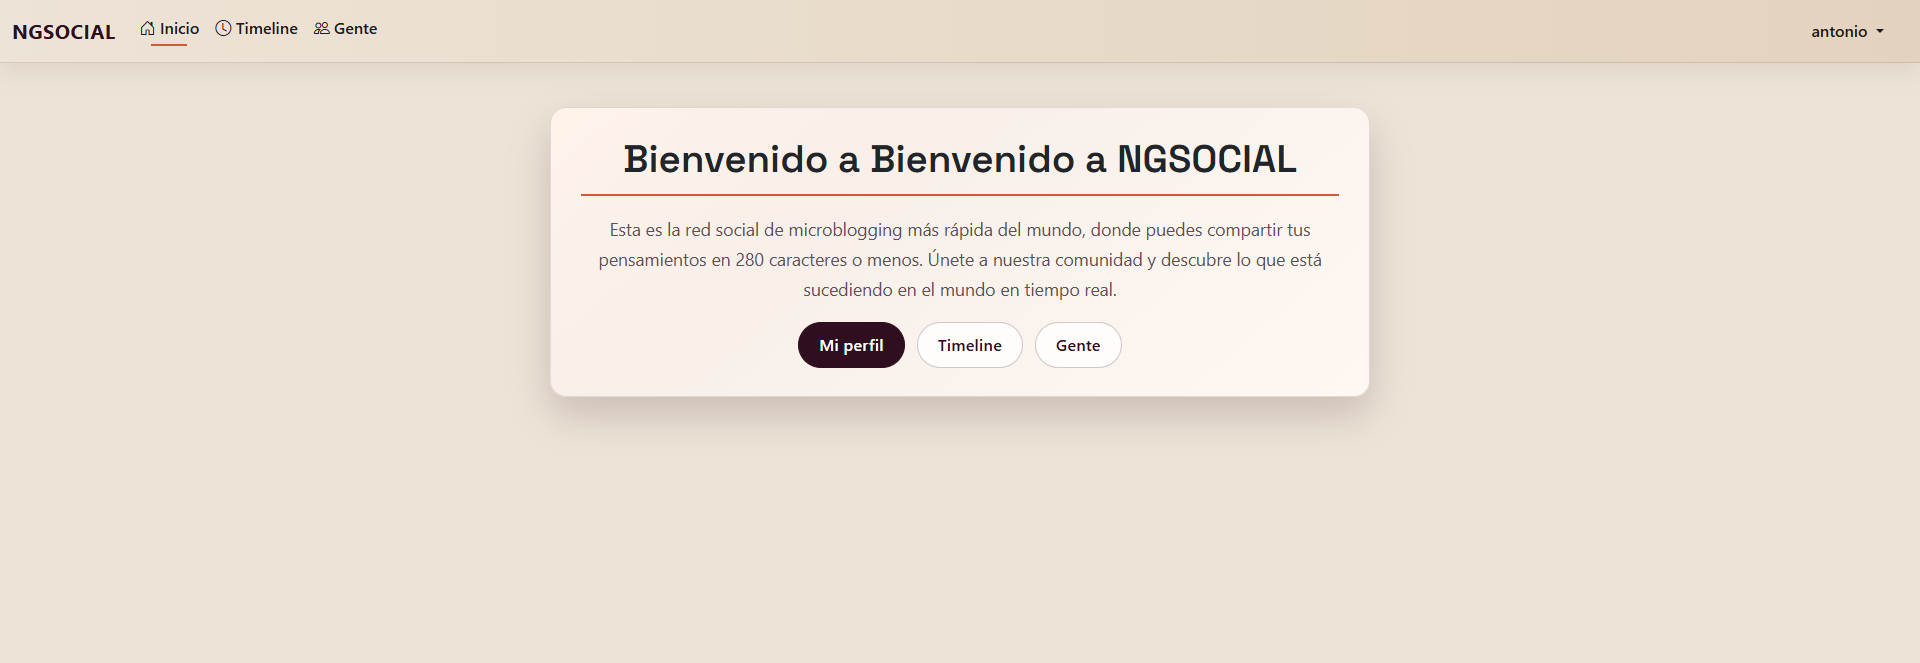
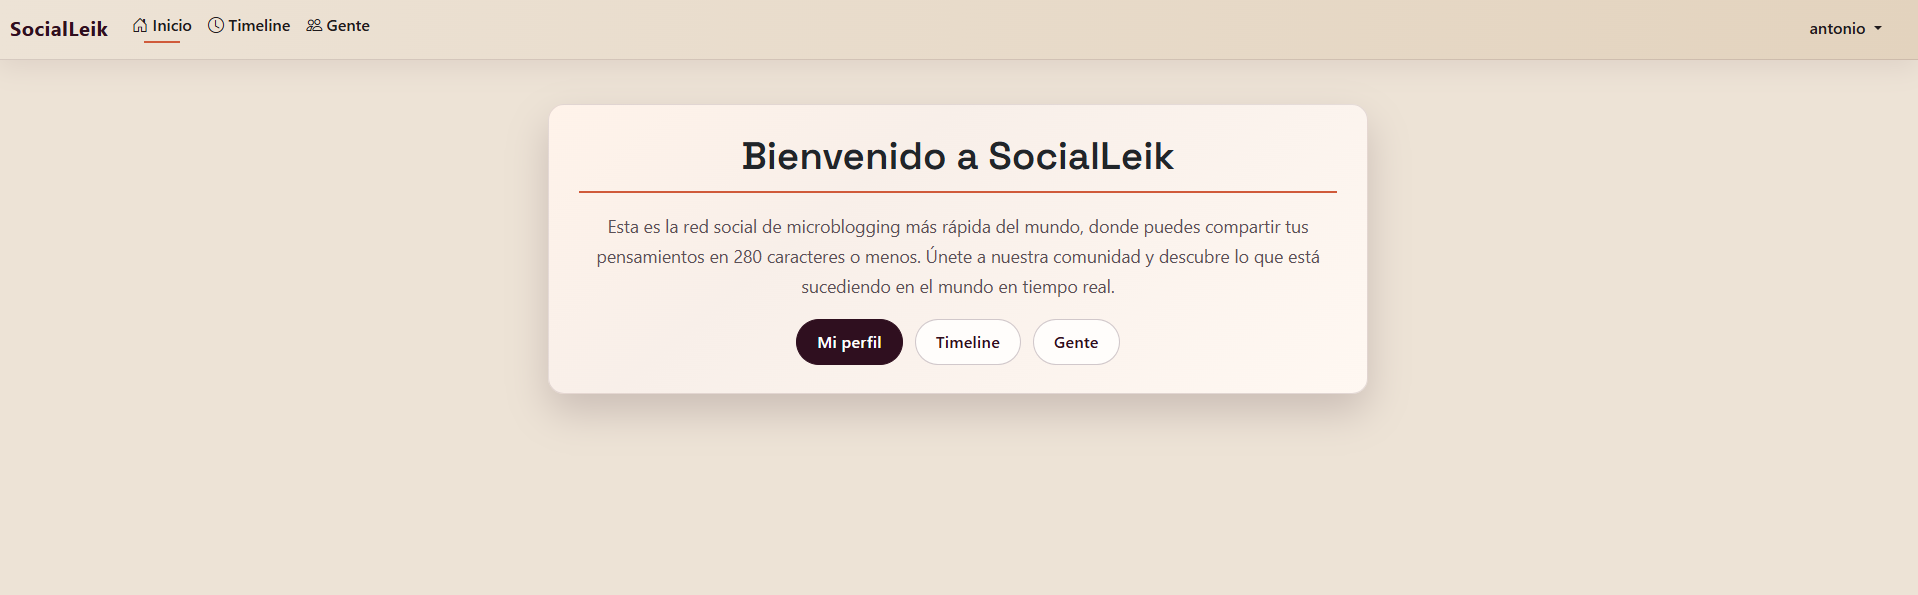
.

diff --git a/client/src/app/components/home/home.html b/client/src/app/components/home/home.html
@@ -1,7 +1,7 @@
 <div class="home-shell">
     <div class="home-hero">
 
-        <h1 class="h1-strong">Bienvenido a {{title}}</h1>
+        <h1 class="h1-strong">{{title}}</h1>
         <p class="home-text">Esta es la red social de microblogging más rápida del mundo, donde puedes compartir tus
             pensamientos en 280 caracteres o menos. Únete a nuestra comunidad y descubre lo que está sucediendo en el
             mundo

diff --git a/client/src/app/app.ts b/client/src/app/app.ts
@@ -24,7 +24,7 @@ export class App implements OnInit, DoCheck {
     private _router: Router,
     private _userService: UserService,
   ) {
-    this.title = "NGSOCIAL";
+    this.title = "SocialLeik";
     this.hasIdentity = false;
     this.isUserMenuOpen = false;
     this.url = GLOBAL.url;

diff --git a/client/src/app/components/home/home.ts b/client/src/app/components/home/home.ts
@@ -8,7 +8,7 @@ export class Home implements OnInit {
     public title: string;
 
     constructor() {
-        this.title = "Bienvenido a NGSOCIAL";
+        this.title = "Bienvenido a SocialLeik";
     }
 
     ngOnInit(): void {
